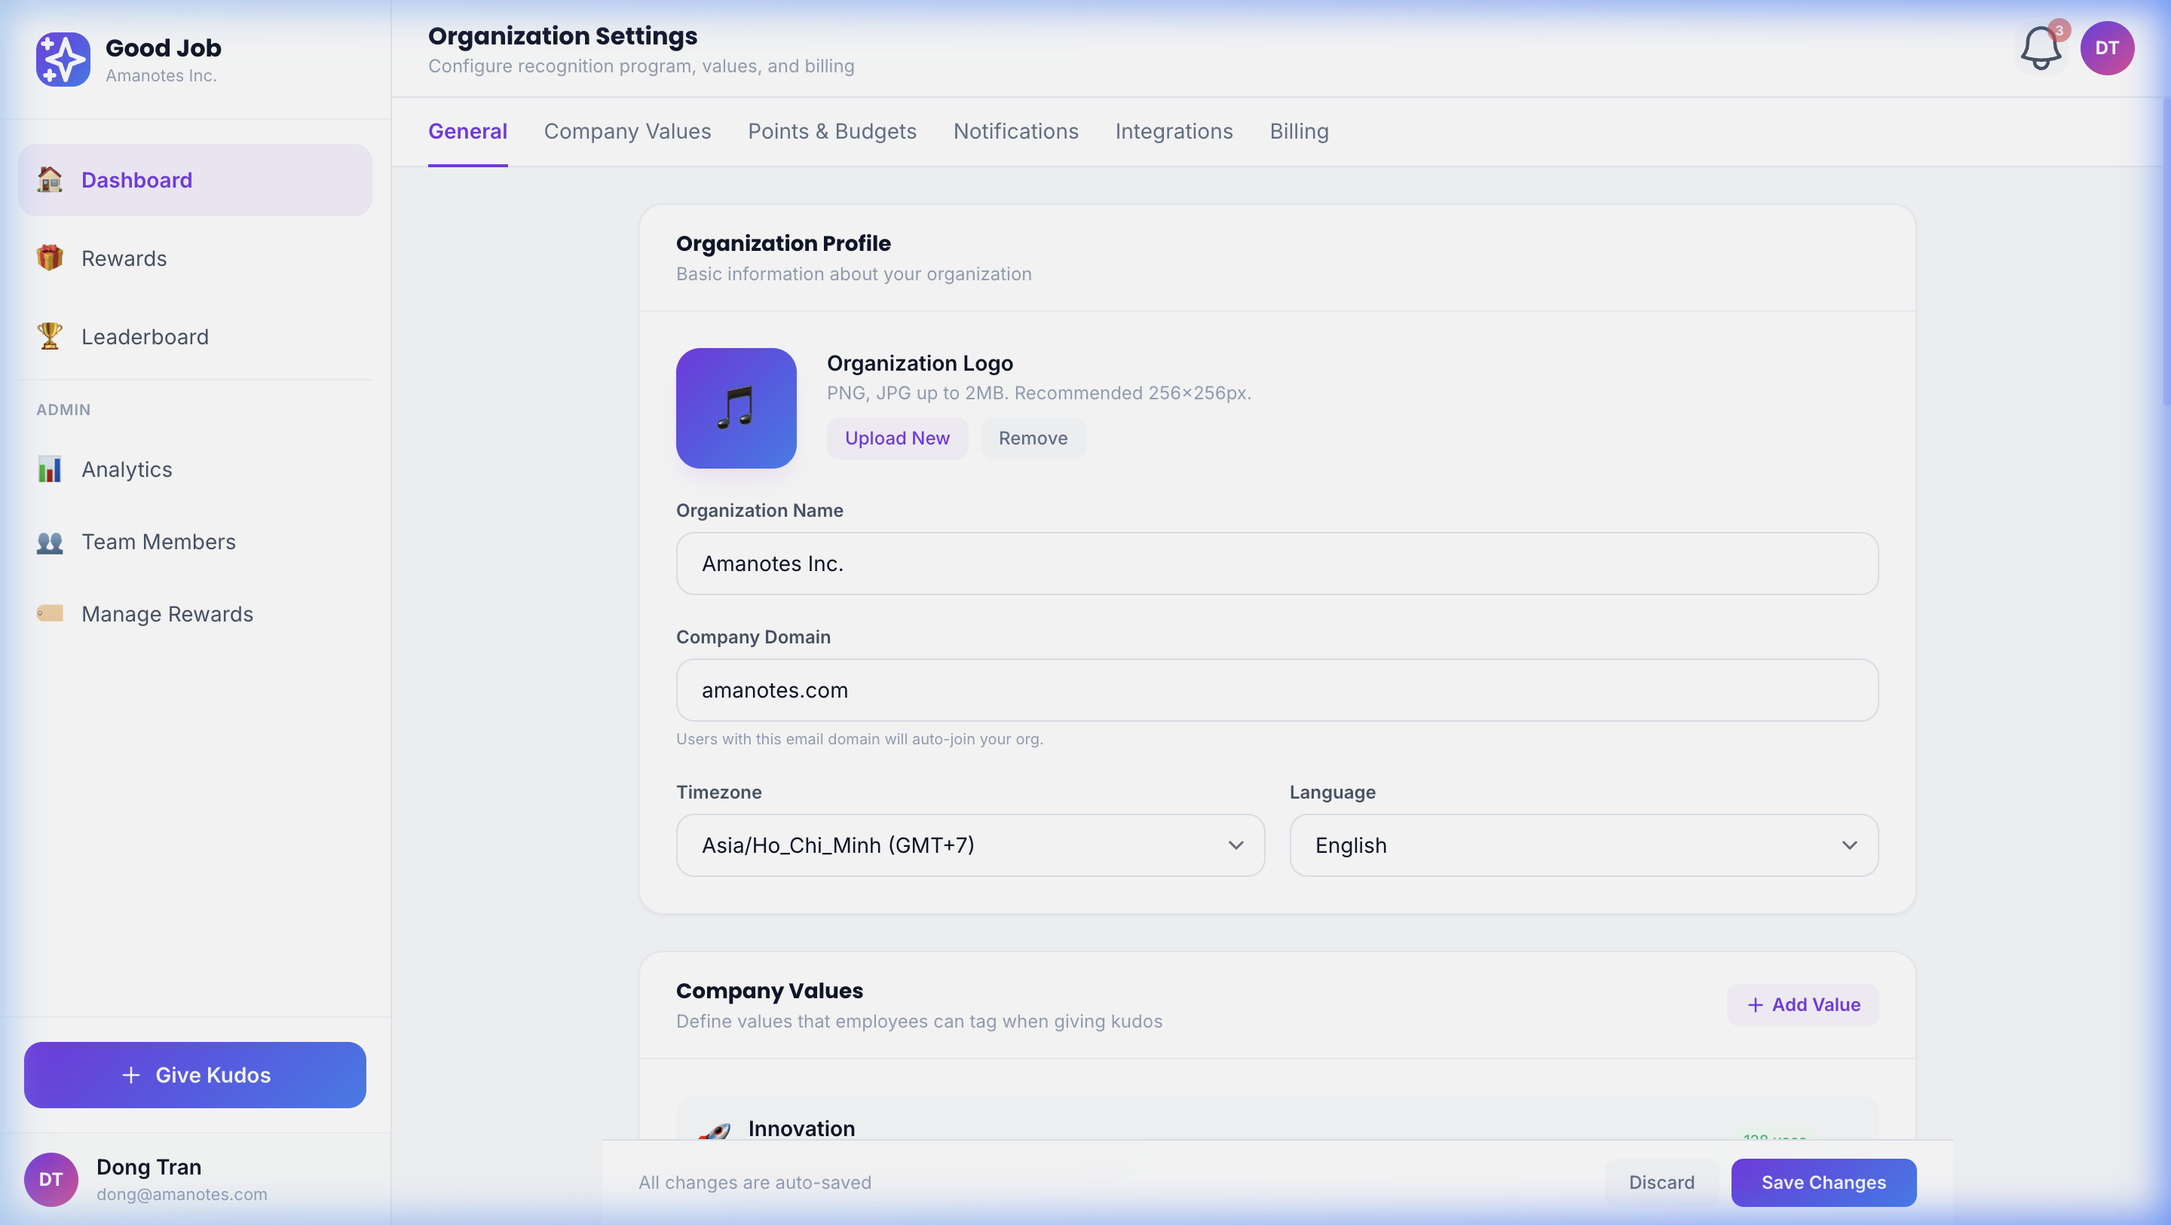
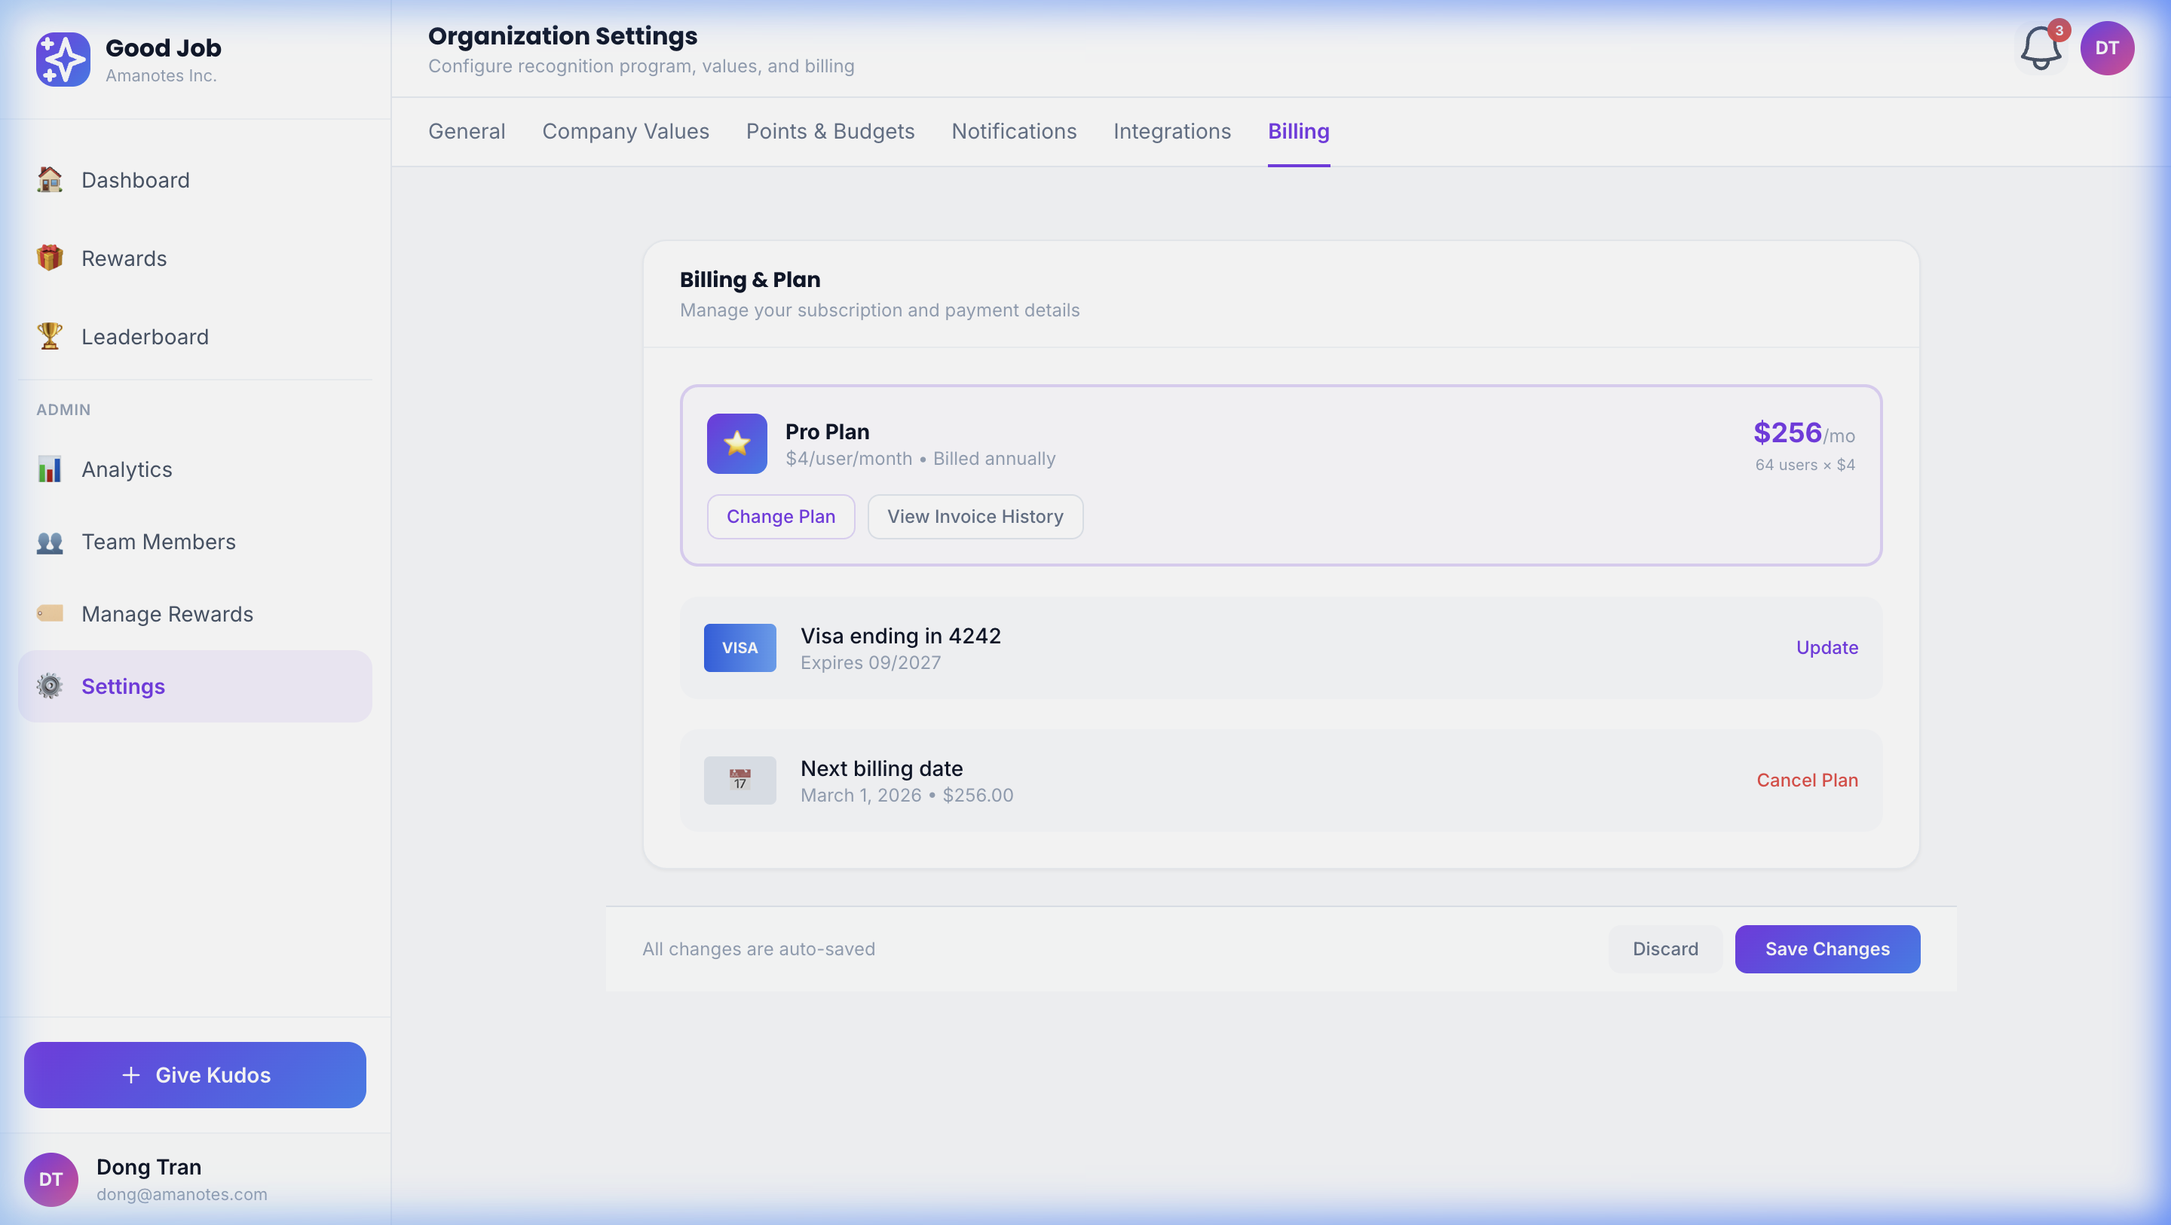
design: update org settings prototype with tab switching and screenshots
- Add Settings menu item to sidebar (active state)
- Implement JS tab switching (General, Company Values, Points & Budgets, Notifications, Integrations, Billing)
- Add Integrations section (Slack, MS Teams, Zapier, Google Workspace)
- Add screenshots for all 6 tabs
- Remove old profile screenshot

diff --git a/designs/ui/prototypes/11-organization-settings/index.html b/designs/ui/prototypes/11-organization-settings/index.html
@@ -198,18 +198,51 @@
         }
 
         /* Account dropdown */
-        .account-dropdown { display: none; position: absolute; right: 0; top: calc(100% + 8px);
-            width: 200px; background: white; border: 1px solid rgba(0,0,0,.08);
-            border-radius: 12px; box-shadow: 0 8px 24px rgba(0,0,0,.12); z-index: 50;
-            padding: 6px; }
-        .account-dropdown.open { display: block; }
-        .account-dropdown a, .account-dropdown button {
-            display: flex; align-items: center; gap: 10px;
-            width: 100%; padding: 8px 10px; border-radius: 8px; font-size: 13px;
-            color: #334155; text-decoration: none; border: none; background: none;
-            cursor: pointer; transition: background .15s; }
-        .account-dropdown a:hover, .account-dropdown button:hover { background: #f1f5f9; }
-        .account-dropdown .divider { height: 1px; background: #f1f5f9; margin: 4px 0; }
+        .account-dropdown {
+            display: none;
+            position: absolute;
+            right: 0;
+            top: calc(100% + 8px);
+            width: 200px;
+            background: white;
+            border: 1px solid rgba(0, 0, 0, .08);
+            border-radius: 12px;
+            box-shadow: 0 8px 24px rgba(0, 0, 0, .12);
+            z-index: 50;
+            padding: 6px;
+        }
+
+        .account-dropdown.open {
+            display: block;
+        }
+
+        .account-dropdown a,
+        .account-dropdown button {
+            display: flex;
+            align-items: center;
+            gap: 10px;
+            width: 100%;
+            padding: 8px 10px;
+            border-radius: 8px;
+            font-size: 13px;
+            color: #334155;
+            text-decoration: none;
+            border: none;
+            background: none;
+            cursor: pointer;
+            transition: background .15s;
+        }
+
+        .account-dropdown a:hover,
+        .account-dropdown button:hover {
+            background: #f1f5f9;
+        }
+
+        .account-dropdown .divider {
+            height: 1px;
+            background: #f1f5f9;
+            margin: 4px 0;
+        }
     </style>
 </head>
 
@@ -234,11 +267,13 @@
                 </div>
             </div>
 
-                        <nav class="flex-1 px-3 py-4 space-y-1 overflow-y-auto">
-                <a href="../03-dashboard/index.html" class="sidebar-link active flex items-center gap-3 px-3 py-2.5 rounded-xl text-sm">
+            <nav class="flex-1 px-3 py-4 space-y-1 overflow-y-auto">
+                <a href="../03-dashboard/index.html"
+                    class="sidebar-link flex items-center gap-3 px-3 py-2.5 rounded-xl text-sm text-slate-600">
                     <span class="text-lg">🏠</span><span>Dashboard</span>
                 </a>
-                <a href="../05-rewards-catalog/index.html" class="sidebar-link flex items-center gap-3 px-3 py-2.5 rounded-xl text-sm text-slate-600">
+                <a href="../05-rewards-catalog/index.html"
+                    class="sidebar-link flex items-center gap-3 px-3 py-2.5 rounded-xl text-sm text-slate-600">
                     <span class="text-lg">🎁</span><span>Rewards</span>
                 </a>
                 <a href="#" class="sidebar-link flex items-center gap-3 px-3 py-2.5 rounded-xl text-sm text-slate-600">
@@ -246,14 +281,20 @@
                 </a>
                 <div class="pt-3 mt-3 border-t border-slate-100">
                     <p class="px-3 text-[10px] font-semibold text-slate-400 uppercase tracking-wider mb-2">Admin</p>
-                    <a href="../06-admin-dashboard/index.html" class="sidebar-link flex items-center gap-3 px-3 py-2.5 rounded-xl text-sm text-slate-600">
+                    <a href="../06-admin-dashboard/index.html"
+                        class="sidebar-link flex items-center gap-3 px-3 py-2.5 rounded-xl text-sm text-slate-600">
                         <span class="text-lg">📊</span><span>Analytics</span>
                     </a>
-                    <a href="../09-admin-user-management/index.html" class="sidebar-link flex items-center gap-3 px-3 py-2.5 rounded-xl text-sm text-slate-600">
+                    <a href="../09-admin-user-management/index.html"
+                        class="sidebar-link flex items-center gap-3 px-3 py-2.5 rounded-xl text-sm text-slate-600">
                         <span class="text-lg">👥</span><span>Team Members</span>
                     </a>
-                    <a href="../10-admin-reward-management/index.html" class="sidebar-link flex items-center gap-3 px-3 py-2.5 rounded-xl text-sm text-slate-600">
+                    <a href="../10-admin-reward-management/index.html"
+                        class="sidebar-link flex items-center gap-3 px-3 py-2.5 rounded-xl text-sm text-slate-600">
                         <span class="text-lg">🏷</span><span>Manage Rewards</span>
+                    </a>
+                    <a href="#" class="sidebar-link active flex items-center gap-3 px-3 py-2.5 rounded-xl text-sm">
+                        <span class="text-lg">⚙</span><span>Settings</span>
                     </a>
                 </div>
             </nav>
@@ -314,24 +355,25 @@
                 <!-- Settings Tabs -->
                 <div class="bg-white border-b border-slate-200/80 px-4 md:px-6">
                     <div class="flex gap-6 -mb-px">
-                        <button class="settings-tab active py-3 text-sm border-b-2 border-transparent">General</button>
-                        <button class="settings-tab py-3 text-sm text-slate-500 border-b-2 border-transparent">Company
-                            Values</button>
-                        <button class="settings-tab py-3 text-sm text-slate-500 border-b-2 border-transparent">Points &
-                            Budgets</button>
-                        <button
-                            class="settings-tab py-3 text-sm text-slate-500 border-b-2 border-transparent">Notifications</button>
-                        <button
-                            class="settings-tab py-3 text-sm text-slate-500 border-b-2 border-transparent">Integrations</button>
-                        <button
-                            class="settings-tab py-3 text-sm text-slate-500 border-b-2 border-transparent">Billing</button>
+                        <button class="settings-tab active py-3 text-sm border-b-2 border-transparent"
+                            data-tab="general">General</button>
+                        <button class="settings-tab py-3 text-sm text-slate-500 border-b-2 border-transparent"
+                            data-tab="values">Company Values</button>
+                        <button class="settings-tab py-3 text-sm text-slate-500 border-b-2 border-transparent"
+                            data-tab="budget">Points & Budgets</button>
+                        <button class="settings-tab py-3 text-sm text-slate-500 border-b-2 border-transparent"
+                            data-tab="notifications">Notifications</button>
+                        <button class="settings-tab py-3 text-sm text-slate-500 border-b-2 border-transparent"
+                            data-tab="integrations">Integrations</button>
+                        <button class="settings-tab py-3 text-sm text-slate-500 border-b-2 border-transparent"
+                            data-tab="billing">Billing</button>
                     </div>
                 </div>
 
                 <div class="max-w-4xl mx-auto px-4 md:px-6 py-6 space-y-6">
 
                     <!-- ========== GENERAL SETTINGS ========== -->
-                    <div
+                    <div data-section="general"
                         class="animate-fadeInUp settings-card bg-white rounded-2xl border border-slate-200/60 shadow-sm overflow-hidden">
                         <div class="px-6 py-4 border-b border-slate-100">
                             <h2 class="font-display font-bold text-gj-dark text-sm">Organization Profile</h2>
@@ -400,7 +442,7 @@
                     </div>
 
                     <!-- ========== COMPANY VALUES ========== -->
-                    <div
+                    <div data-section="values"
                         class="animate-fadeInUp animate-delay-1 settings-card bg-white rounded-2xl border border-slate-200/60 shadow-sm overflow-hidden">
                         <div class="px-6 py-4 border-b border-slate-100 flex items-center justify-between">
                             <div>
@@ -519,7 +561,7 @@
                     </div>
 
                     <!-- ========== POINTS & BUDGET SETTINGS ========== -->
-                    <div
+                    <div data-section="budget"
                         class="animate-fadeInUp animate-delay-2 settings-card bg-white rounded-2xl border border-slate-200/60 shadow-sm overflow-hidden">
                         <div class="px-6 py-4 border-b border-slate-100">
                             <h2 class="font-display font-bold text-gj-dark text-sm">Points & Budget Configuration</h2>
@@ -586,7 +628,7 @@
                     </div>
 
                     <!-- ========== NOTIFICATION PREFERENCES ========== -->
-                    <div
+                    <div data-section="notifications"
                         class="settings-card bg-white rounded-2xl border border-slate-200/60 shadow-sm overflow-hidden">
                         <div class="px-6 py-4 border-b border-slate-100">
                             <h2 class="font-display font-bold text-gj-dark text-sm">Notification Defaults</h2>
@@ -645,8 +687,77 @@
                         </div>
                     </div>
 
+                    <!-- ========== INTEGRATIONS ========== -->
+                    <div data-section="integrations"
+                        class="settings-card bg-white rounded-2xl border border-slate-200/60 shadow-sm overflow-hidden">
+                        <div class="px-6 py-4 border-b border-slate-100">
+                            <h2 class="font-display font-bold text-gj-dark text-sm">Integrations</h2>
+                            <p class="text-xs text-slate-400 mt-0.5">Connect with the tools your team already uses</p>
+                        </div>
+                        <div class="p-6 space-y-4">
+                            <!-- Slack -->
+                            <div class="flex items-center gap-4 p-4 bg-slate-50/80 rounded-xl">
+                                <div
+                                    class="w-12 h-12 rounded-xl bg-[#4A154B] flex items-center justify-center text-white text-xl flex-shrink-0">
+                                    💬</div>
+                                <div class="flex-1">
+                                    <p class="text-sm font-semibold text-gj-dark">Slack</p>
+                                    <p class="text-xs text-slate-400">Post kudos to channels & enable /kudos commands
+                                    </p>
+                                </div>
+                                <span
+                                    class="text-[10px] font-medium text-gj-green bg-green-50 px-2.5 py-1 rounded-full">Connected</span>
+                                <button class="text-xs font-medium text-gj-purple hover:underline">Configure</button>
+                            </div>
+                            <!-- MS Teams -->
+                            <div class="flex items-center gap-4 p-4 bg-slate-50/80 rounded-xl">
+                                <div
+                                    class="w-12 h-12 rounded-xl bg-[#464EB8] flex items-center justify-center text-white text-xl flex-shrink-0">
+                                    📱</div>
+                                <div class="flex-1">
+                                    <p class="text-sm font-semibold text-gj-dark">Microsoft Teams</p>
+                                    <p class="text-xs text-slate-400">Receive notifications and send kudos from Teams
+                                    </p>
+                                </div>
+                                <span
+                                    class="text-[10px] font-medium text-slate-500 bg-slate-100 px-2.5 py-1 rounded-full">Not
+                                    Connected</span>
+                                <button
+                                    class="text-xs font-medium text-white gradient-primary px-3 py-1.5 rounded-lg">Connect</button>
+                            </div>
+                            <!-- Zapier -->
+                            <div class="flex items-center gap-4 p-4 bg-slate-50/80 rounded-xl">
+                                <div
+                                    class="w-12 h-12 rounded-xl bg-[#FF4A00] flex items-center justify-center text-white text-xl flex-shrink-0">
+                                    ⚡</div>
+                                <div class="flex-1">
+                                    <p class="text-sm font-semibold text-gj-dark">Zapier</p>
+                                    <p class="text-xs text-slate-400">Automate workflows with 5,000+ apps</p>
+                                </div>
+                                <span
+                                    class="text-[10px] font-medium text-slate-500 bg-slate-100 px-2.5 py-1 rounded-full">Not
+                                    Connected</span>
+                                <button
+                                    class="text-xs font-medium text-white gradient-primary px-3 py-1.5 rounded-lg">Connect</button>
+                            </div>
+                            <!-- Google Workspace -->
+                            <div class="flex items-center gap-4 p-4 bg-slate-50/80 rounded-xl">
+                                <div
+                                    class="w-12 h-12 rounded-xl bg-white border border-slate-200 flex items-center justify-center text-xl flex-shrink-0">
+                                    🔵</div>
+                                <div class="flex-1">
+                                    <p class="text-sm font-semibold text-gj-dark">Google Workspace</p>
+                                    <p class="text-xs text-slate-400">Sync users from Google directory</p>
+                                </div>
+                                <span
+                                    class="text-[10px] font-medium text-gj-green bg-green-50 px-2.5 py-1 rounded-full">Connected</span>
+                                <button class="text-xs font-medium text-gj-purple hover:underline">Configure</button>
+                            </div>
+                        </div>
+                    </div>
+
                     <!-- ========== BILLING & PLAN ========== -->
-                    <div
+                    <div data-section="billing"
                         class="settings-card bg-white rounded-2xl border border-slate-200/60 shadow-sm overflow-hidden">
                         <div class="px-6 py-4 border-b border-slate-100">
                             <h2 class="font-display font-bold text-gj-dark text-sm">Billing & Plan</h2>
@@ -708,7 +819,7 @@
                     </div>
 
                     <!-- ========== DANGER ZONE ========== -->
-                    <div
+                    <div data-section="general"
                         class="settings-card bg-white rounded-2xl border border-red-200/60 shadow-sm overflow-hidden mb-6">
                         <div class="px-6 py-4 border-b border-red-100 bg-red-50/30">
                             <h2 class="font-display font-bold text-red-600 text-sm">⚠ Danger Zone</h2>
@@ -776,12 +887,53 @@
     </nav>
 
     <script>
-        (function(){
+        (function () {
+            // Account dropdown
             var btn = document.getElementById('accountBtn');
             var menu = document.getElementById('accountMenu');
-            if (!btn || !menu) return;
-            btn.addEventListener('click', function(e){ e.stopPropagation(); menu.classList.toggle('open'); });
-            document.addEventListener('click', function(){ menu.classList.remove('open'); });
+            if (btn && menu) {
+                btn.addEventListener('click', function (e) { e.stopPropagation(); menu.classList.toggle('open'); });
+                document.addEventListener('click', function () { menu.classList.remove('open'); });
+            }
+
+            // Tab switching
+            var tabs = document.querySelectorAll('.settings-tab[data-tab]');
+            var sections = document.querySelectorAll('[data-section]');
+
+            function switchTab(tabName) {
+                // Update tab styles
+                tabs.forEach(function (t) {
+                    t.classList.remove('active');
+                    t.classList.add('text-slate-500');
+                });
+                var activeTab = document.querySelector('.settings-tab[data-tab="' + tabName + '"]');
+                if (activeTab) {
+                    activeTab.classList.add('active');
+                    activeTab.classList.remove('text-slate-500');
+                }
+
+                // Show/hide sections
+                sections.forEach(function (s) {
+                    if (s.getAttribute('data-section') === tabName) {
+                        s.style.display = '';
+                    } else {
+                        s.style.display = 'none';
+                    }
+                });
+
+                // Scroll content to top
+                var contentArea = document.querySelector('.flex-1.overflow-y-auto');
+                if (contentArea) contentArea.scrollTop = 0;
+            }
+
+            tabs.forEach(function (tab) {
+                tab.addEventListener('click', function () {
+                    switchTab(this.getAttribute('data-tab'));
+                });
+            });
+
+            // Initialize: show only General tab
+            switchTab('general');
         })();
     </script>
 </body>
